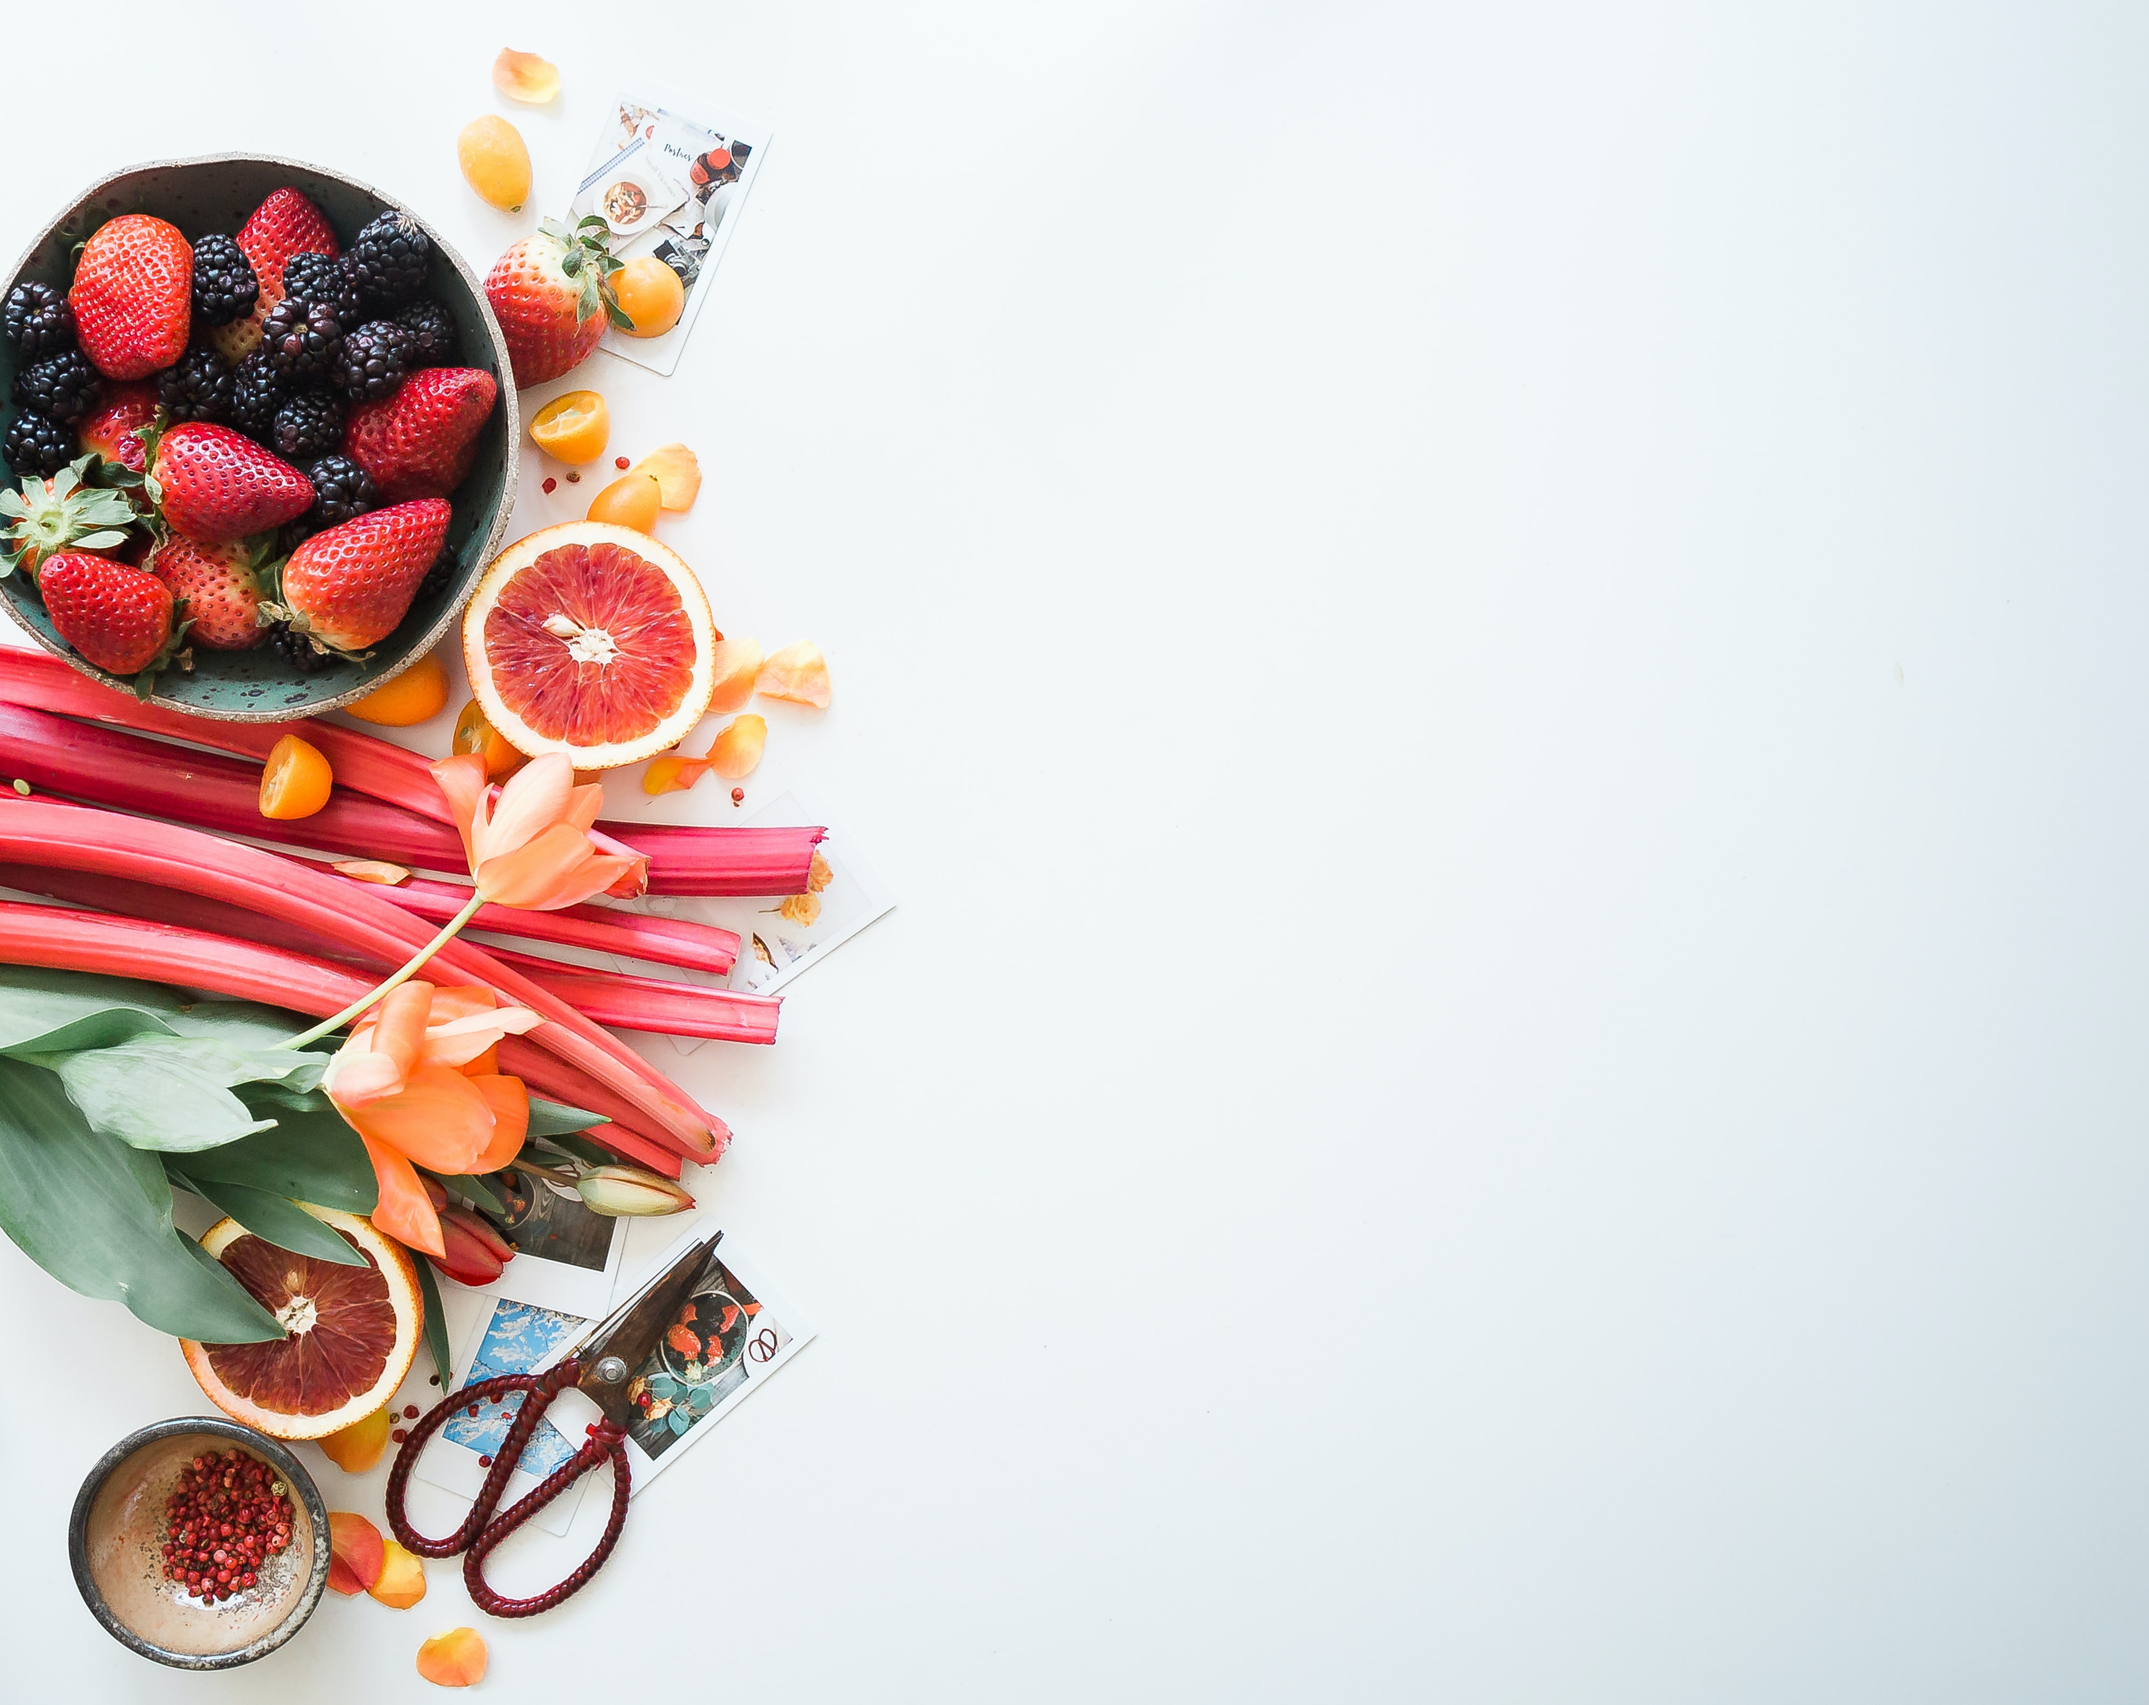
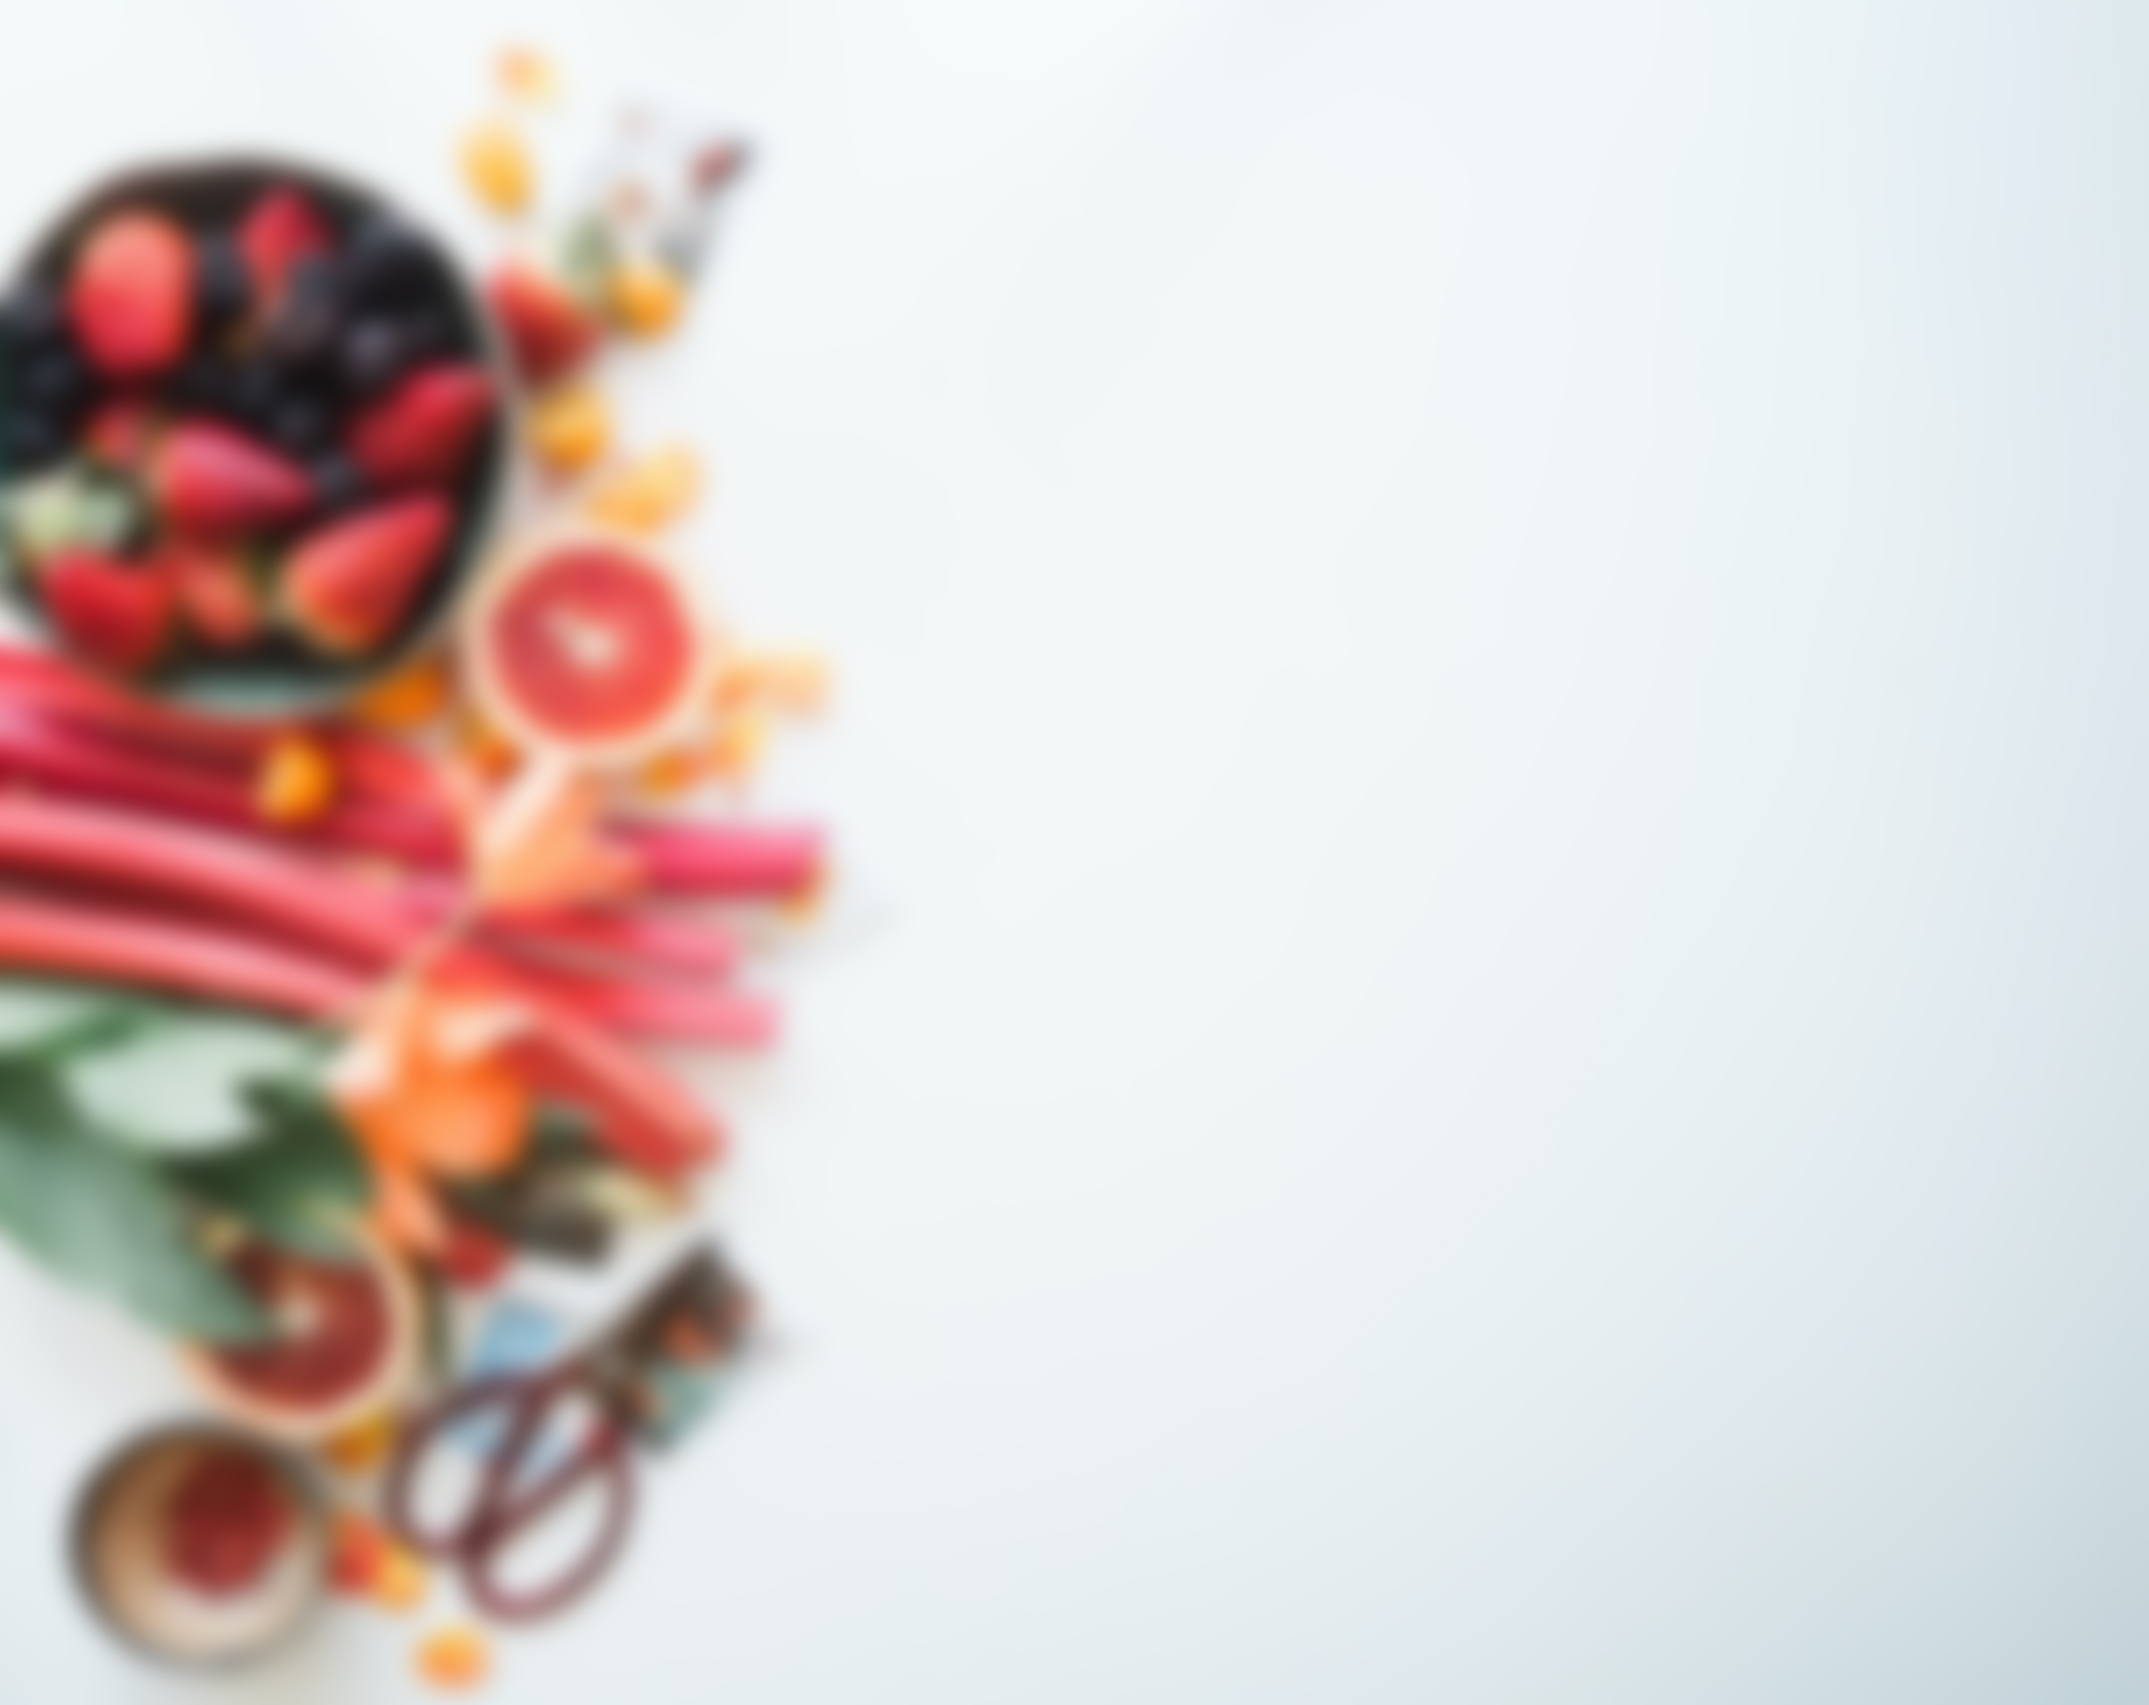
Start working with json-server, loading menu-list-items from db.json

Changed region(s): [[0.0, 0.0312, 0.4033, 0.9991], [0.0, 0.7181, 0.031, 0.7493]]

diff --git a/src/components/menu-list/menu-list.jsx b/src/components/menu-list/menu-list.jsx
@@ -1,39 +1,57 @@
-import React from 'react';
-import { Container, Row, Col } from 'react-bootstrap';
+import React, { Component } from 'react';
+import { connect } from 'react-redux';
+import { Container, Row } from 'react-bootstrap';
 import MenuListItem from '../menu-list-item';
 import './menu-list.scss';
+import WithRestoService from '../higher-order component';
 
-const MenuList = () => (
-  <Container fluid className="bg-light p-4">
-    <Row className="mx-auto">
-      <Col md="3">
-        <MenuListItem />
-      </Col>
-      <Col md="3">
-        <MenuListItem />
-      </Col>
-      <Col md="3">
-        <MenuListItem />
-      </Col>
-      <Col md="3">
-        <MenuListItem />
-      </Col>
-    </Row>
-    <Row className="mx-auto">
-      <Col md="3">
-        <MenuListItem />
-      </Col>
-      <Col md="3">
-        <MenuListItem />
-      </Col>
-      <Col md="3">
-        <MenuListItem />
-      </Col>
-      <Col md="3">
-        <MenuListItem />
-      </Col>
-    </Row>
-  </Container>
-);
+class MenuList extends Component {
+  componentDidMount() {
+    const { menuLoaded } = this.props;
+    const { RestoService } = this.props;
+    RestoService.getMenuItems()
+      .then((res) => menuLoaded(res));
+  }
 
-export default MenuList;
+  render() {
+    const { menuItems } = this.props;
+    return (
+      <Container fluid className="bg-light p-4">
+        <Row className="mx-auto">
+          { menuItems.map((menuItem) => <MenuListItem key={menuItem.id} menuItem={menuItem} />) }
+        </Row>
+      </Container>
+    );
+  }
+}
+
+const mapStateToProps = (state) => ({
+  menuItems: state.menu
+});
+
+const mapDispatchToProps = (dispatch) => ({
+  menuLoaded: (newMenu) => {
+    dispatch({
+      type: 'MENU_LOADED',
+      payload: newMenu
+    });
+  }
+});
+
+export default WithRestoService()(connect(mapStateToProps, mapDispatchToProps)(MenuList));
+
+//   const firstArr = [[]];
+
+//   menuItems.forEach((item, i) => {
+//     firstArr[firstArr.length - 1].push(item)
+//     if ((i + 1) % 4 === 0 && i != (menuItems.length - 1)) {
+//       firstArr.push([])
+//     }
+// });
+//   console.log(firstArr);
+
+//   firstArr.forEach((row_data) => {
+//     row_data.forEach((col_data) => {
+//       console.log(col_data)
+//     })
+//   });

diff --git a/src/components/menu-list-item/menu-list-item.jsx b/src/components/menu-list-item/menu-list-item.jsx
@@ -1,24 +1,42 @@
 import React from 'react';
 import './menu-list-item.scss';
-import { Card, Button, Badge } from 'react-bootstrap';
+import {
+  Card,
+  Button,
+  Badge,
+  Col
+} from 'react-bootstrap';
 
-const MenuListItem = () => (
-  <>
-    <Card className="my-4 menu__card  text-center border-0">
-      <Card.Img variant="top" src="https://images.unsplash.com/photo-1513442542250-854d436a73f2?ixid=MXwxMjA3fDB8MHxwaG90by1wYWdlfHx8fGVufDB8fHw%3D&ixlib=rb-1.2.1&auto=format&fit=crop&w=1116&q=80" />
-      <Card.Body className="px-3 border-0">
-        <Card.Title className="menu__title"> Vegetable salad</Card.Title>
-        <Card.Text className="p-0 m-0 menu__card_font">
-          Category:
-          <Badge variant="dark p-1 ml-2">salads</Badge>
-        </Card.Text>
-        <Card.Text className="p-0 m-0 menu__card_font mb-2">
-          12$
-        </Card.Text>
-        <Button variant="" className="menu__btn">Add to cart</Button>
-      </Card.Body>
-    </Card>
-  </>
-);
+const MenuListItem = ({ menuItem }) => {
+  const {
+    title,
+    price,
+    url,
+    category
+  } = menuItem;
+  return (
+    <>
+      <Col xs={6} lg={3}>
+        <Card className="my-4 menu__card  text-center border-0">
+          <Card.Img variant="top" src={url} className="img-size" />
+          <Card.Body className="px-3 border-0">
+            <Card.Title className="menu__title mb-1">
+              { title }
+            </Card.Title>
+            <Card.Text className="p-0 m-0 menu__card_font">
+              Category:
+              <Badge variant="dark p-1 ml-2 font-weight-normal">{ category }</Badge>
+            </Card.Text>
+            <Card.Text className="p-0 m-0 menu__card_font mb-2">
+              {price}
+              $
+            </Card.Text>
+            <Button variant="" className="menu__btn">Add to cart</Button>
+          </Card.Body>
+        </Card>
+      </Col>
+    </>
+  );
+};
 
 export default MenuListItem;

diff --git a/src/components/menu-list-item/menu-list-item.scss b/src/components/menu-list-item/menu-list-item.scss
@@ -1,22 +1,24 @@
-@import url('https://fonts.googleapis.com/css2?family=Raleway&display=swap');
+@import url('https://fonts.googleapis.com/css2?family=Montserrat&display=swap');
 
 .menu__card {
   width: 100%;
   font-size: 1rem;
   background: linear-gradient(180deg, rgba(146, 163, 168, 0.787) 0%, rgba(0, 0, 0, 0) 92%);
   box-shadow: 3px -5px 12px -9px rgba(0,0,0,0.66);
+  height: 420px;
 }
 
 .menu__card_font {
-    font-size: 1rem;
+  font-size: 0.9rem;
+  font-family: 'Montserrat', sans-serif;
 }
 
 .menu__btn {
-  background: #ff8800;
+  background: rgba(118, 133, 139, 0.37);
   border: none;
   letter-spacing: 0.2px;
   &:hover{
-    background-color: rgba(111, 118, 121, 0.37);
+    background-color: #ff8800b6;
     transition: all 0.3s ease-in-out;
     
   }
@@ -29,7 +31,17 @@
 }
 
 .menu__title {
-  font-family: 'Raleway', sans-serif;
-  font-size: 1.2rem;
+  font-family: 'Montserrat', sans-serif;
+  font-size: 1rem;
   font-weight: 500;
+  height: 40px;
+}
+
+.img-size {
+  height: 250px;
+  width: 100%;
+}
+
+img {
+  object-fit: cover;
 }

diff --git a/src/components/app/app.scss b/src/components/app/app.scss
@@ -1,24 +1,24 @@
 @import url('https://fonts.googleapis.com/css2?family=Raleway:wght@800&display=swap');
 @import url('https://fonts.googleapis.com/css2?family=Raleway:wght@600&display=swap');
-@import url('https://fonts.googleapis.com/css2?family=Jost&display=swap');
+@import url('https://fonts.googleapis.com/css2?family=Montserrat:wght@500&display=swap');
 
-$font-jost: 'Jost', sans-serif;
+$font-montserrat: 'Montserrat', sans-serif;;
 
 h1 {
   color: rgb(44, 39, 4);
-  font-size: 4em;
+  font-size: 4vw;
   font-family: 'Raleway', sans-serif;
   font-weight: bold;
 }
 
 p {
-  font-family: $font-jost;
+  font-family: $font-montserrat;
   font-size: 20px;
+  font-weight: 400;
 }
 
 .page {
   max-width: 1440px;
-  background: url(../../images/1.jpg);
   height:2000px;
   background-size: cover;
 }
@@ -33,3 +33,14 @@ p {
   background-size: cover;
 }
 
+.bgh {
+  background: url(../../images/1.jpg);
+  background-size: cover;
+  filter: blur(5px);
+  position: fixed;
+  left: 0; right: 0; top: 0; bottom: 0;
+}
+
+.header-bg {
+  font-size: 1rem;
+}

diff --git a/src/services/resto-service.jsx b/src/services/resto-service.jsx
@@ -1,21 +1,19 @@
-import React, { Component } from 'react';
+import { Component } from 'react';
 
 export default class RestoService extends Component {
-  constructor(props) {
-    super(props);
-    this.state = {
-    };
+  _apiBase = 'http://localhost:3000';
+
+  async getResource(url) {
+    const res = await fetch(`${this._apiBase}${url}`);
+    if (!res.ok) {
+      throw new Error(`Could not fetch ${url} , received ${res.status}`);
+    }
+    const result = await res.json();
+    return result;
   }
 
-  getMenuItems = () => (
-    []
-  )
-
-  render() {
-    return (
-      <div className="">
-        1
-      </div>
-    );
+  async getMenuItems() {
+    const res = await this.getResource('/menu/');
+    return res;
   }
 }

diff --git a/src/components/app/app.jsx b/src/components/app/app.jsx
@@ -3,11 +3,10 @@ import 'bootstrap/dist/css/bootstrap.min.css';
 import { Container, Row, Col } from 'react-bootstrap';
 import AppHeader from '../app-header';
 import MainPage from '../pages/main-page';
-import WithRestoService from '../higher-order component';
 
 import './app.scss';
 
-const App = ({ RestoService }) => (
+const App = () => (
   <Container className="page">
     <Row>
       <Col />
@@ -19,4 +18,4 @@ const App = ({ RestoService }) => (
   </Container>
 );
 
-export default WithRestoService()(App);
+export default (App);

diff --git a/src/index.css b/src/index.css
@@ -5,6 +5,8 @@ body {
     sans-serif;
   -webkit-font-smoothing: antialiased;
   -moz-osx-font-smoothing: grayscale;
+  background: url(../src/images/1.jpg);
+  background-size: cover;  
 }
 
 code {

diff --git a/src/components/spinner/spinner.jsx b/src/components/spinner/spinner.jsx
@@ -1,0 +1,8 @@
+import React from 'react';
+
+const Spinner = () => (
+  <div className="spinner">loading...</div>
+
+);
+
+export default Spinner;

diff --git a/src/components/spinner/index.js b/src/components/spinner/index.js
@@ -1,0 +1,3 @@
+import Spinner from './spinner';
+
+export default Spinner;
